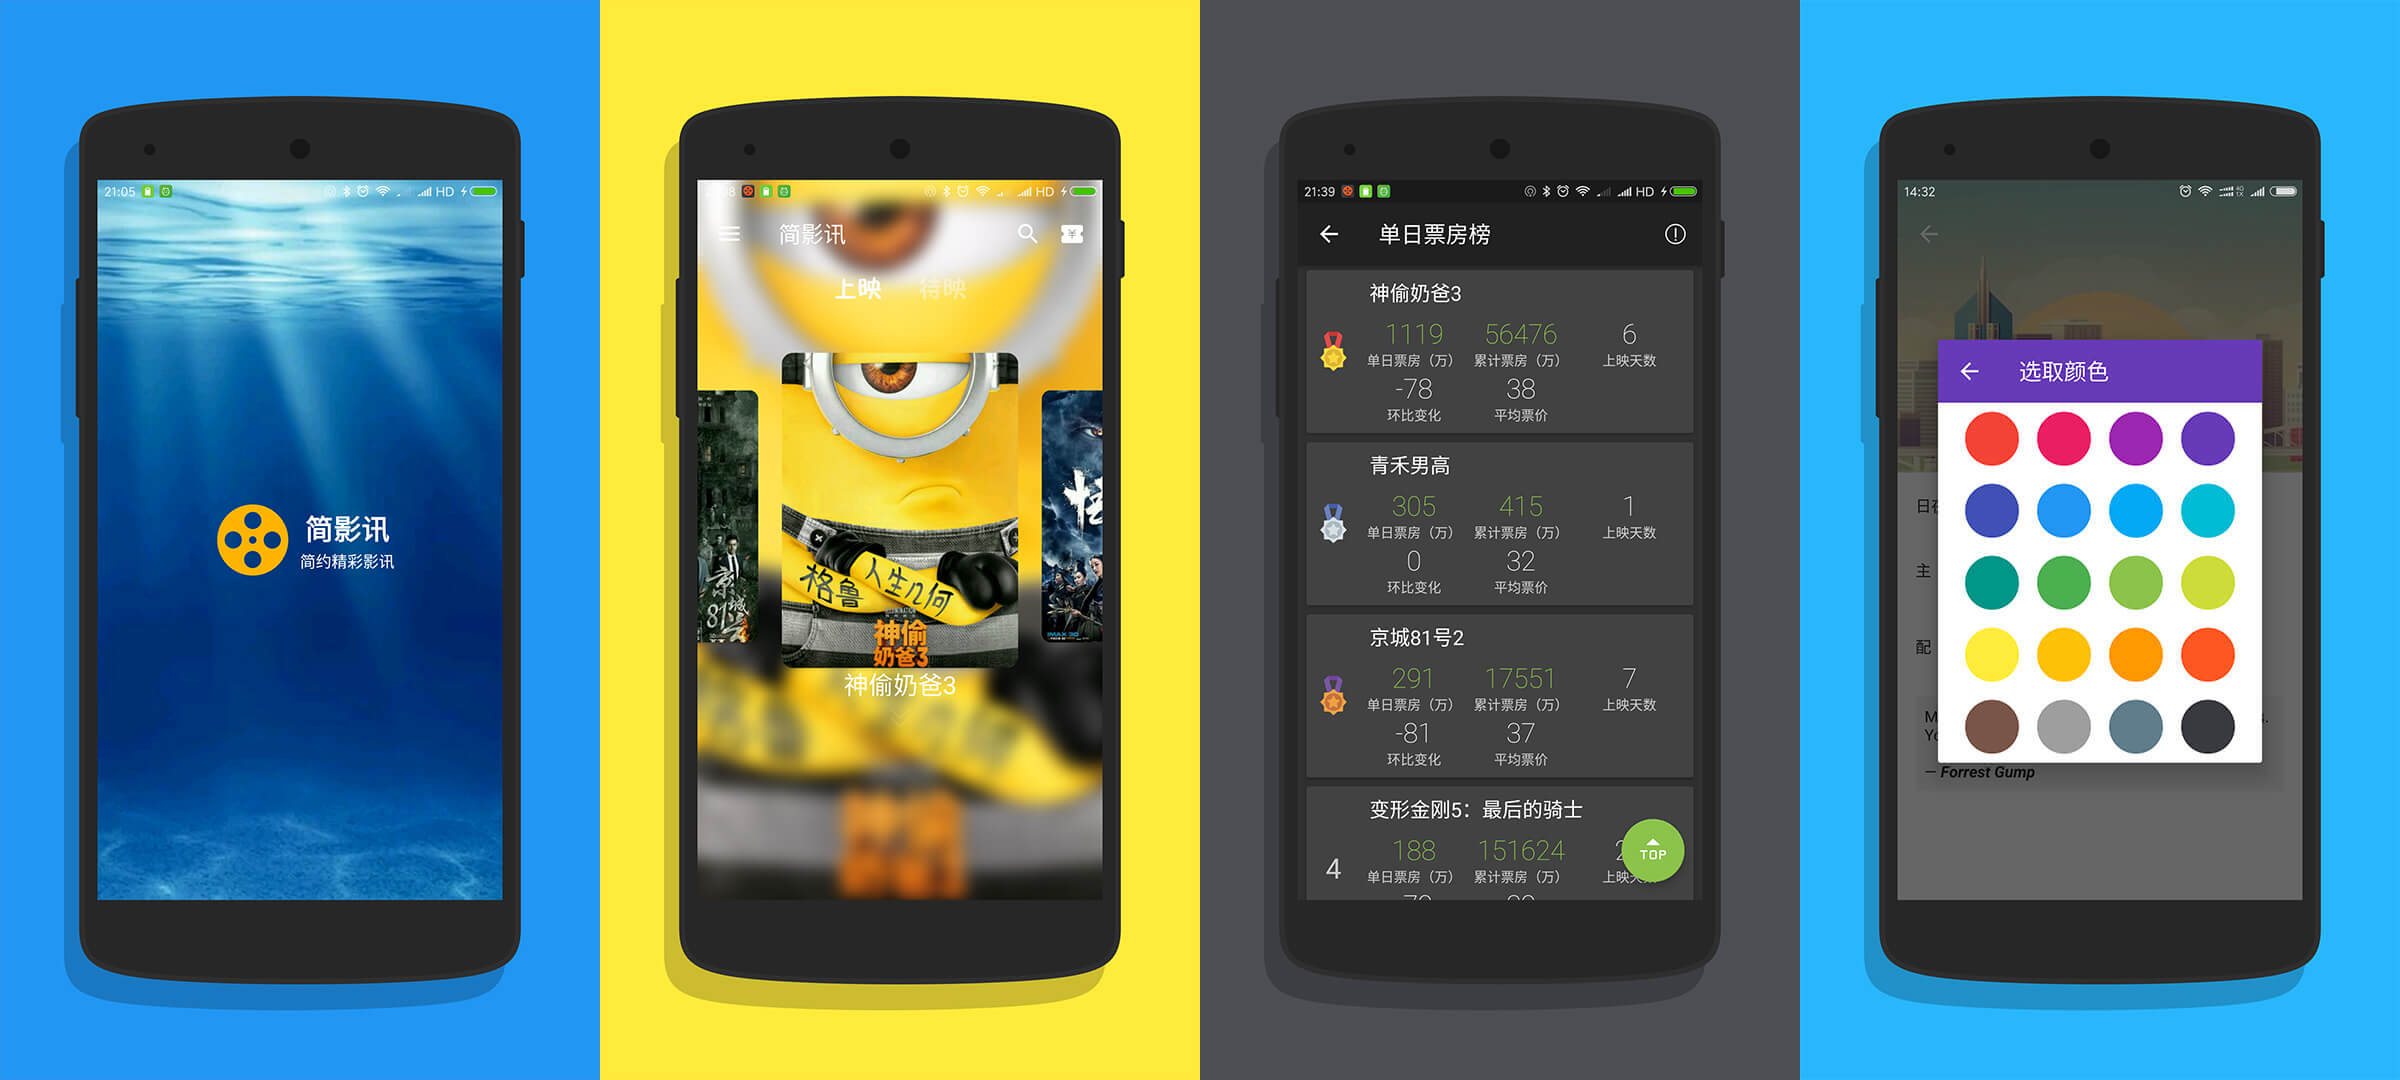
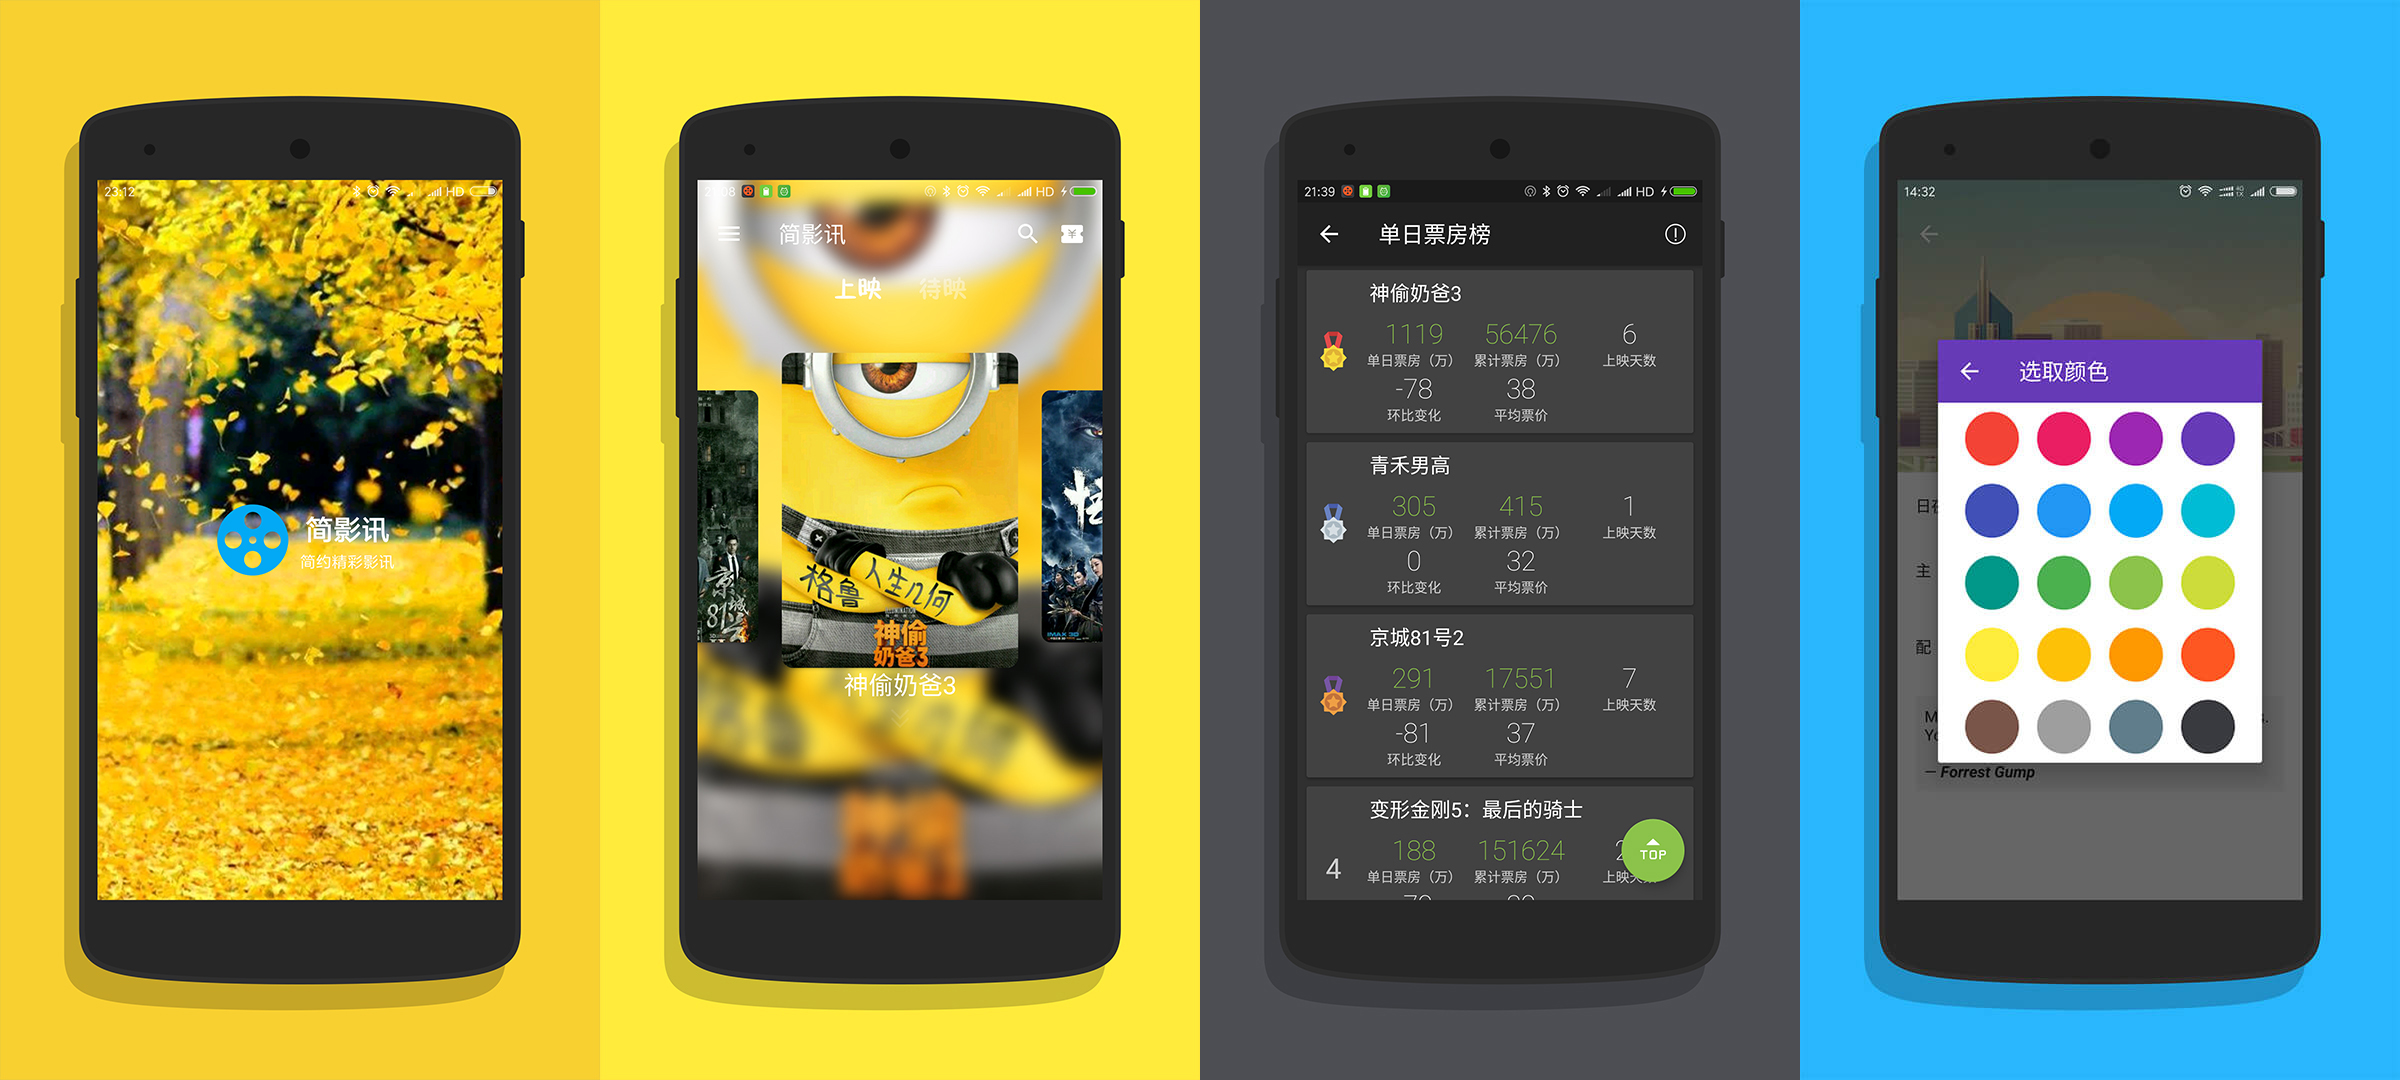
更新秋日装扮；修复bug

diff --git a/app/src/main/java/com/xw/project/gracefulmovies/view/fragment/MovieListFragment.java b/app/src/main/java/com/xw/project/gracefulmovies/view/fragment/MovieListFragment.java
@@ -27,7 +27,7 @@ import butterknife.ButterKnife;
 
 /**
  * 影片列表Fragment
- * <p/>
+ * <p>
  * Created by woxingxiao on 2017-01-23.
  */
 public class MovieListFragment extends Fragment implements
@@ -76,7 +76,7 @@ public class MovieListFragment extends Fragment implements
 
         mBlurTransformation = new BlurTransformation(getActivity(), 10);
         mBgImg1.setAlpha(0f);
-        mBgImg2.setImageResource(R.drawable.pic_bg_ocean);
+        mBgImg2.setImageResource(R.drawable.pic_bg_fall);
 
         return view;
     }
@@ -140,8 +140,8 @@ public class MovieListFragment extends Fragment implements
             Glide.with(activity)
                     .load(mMovieModels.get(index).getPoster())
                     .transform(mBlurTransformation)
-                    .placeholder(R.drawable.pic_bg_ocean)
-                    .error(R.drawable.pic_bg_ocean)
+                    .placeholder(R.drawable.pic_bg_fall)
+                    .error(R.drawable.pic_bg_fall)
                     .crossFade()
                     .into(imageView);
         }
@@ -225,17 +225,18 @@ public class MovieListFragment extends Fragment implements
     }
 
     @Override
-    public void onScroll(float scrollPosition, @NonNull MovieListAdapter.MovieVH currentHolder, @NonNull MovieListAdapter.MovieVH newCurrent) {
+    public void onScroll(float scrollPosition, int currentPosition, int newPosition,
+                         @Nullable MovieListAdapter.MovieVH currentHolder,
+                         @Nullable MovieListAdapter.MovieVH newCurrent) {
         float position = Math.abs(scrollPosition);
-        boolean isOdd = currentHolder.getAdapterPosition() % 2 != 0;
-        int intentPos = newCurrent.getAdapterPosition();
+        boolean isOdd = currentPosition % 2 != 0;
 
-        if (mPreIntentPos != intentPos) {
+        if (mPreIntentPos != newPosition) {
             isIntentTriggered = false;
         }
         if (isOdd) {
-            if (!isIntentTriggered && intentPos >= 0 && intentPos <= mMovieModels.size() - 1) {
-                displayBgImage(intentPos, mBgImg1);
+            if (!isIntentTriggered && newPosition >= 0 && newPosition <= mMovieModels.size() - 1) {
+                displayBgImage(newPosition, mBgImg1);
 
                 isIntentTriggered = true;
             }
@@ -243,8 +244,8 @@ public class MovieListFragment extends Fragment implements
             mBgImg1.setAlpha(position);
             mBgImg2.setAlpha(1 - position);
         } else {
-            if (!isIntentTriggered && intentPos >= 0 && intentPos <= mMovieModels.size() - 1) {
-                displayBgImage(intentPos, mBgImg2);
+            if (!isIntentTriggered && newPosition >= 0 && newPosition <= mMovieModels.size() - 1) {
+                displayBgImage(newPosition, mBgImg2);
 
                 isIntentTriggered = true;
             }
@@ -252,13 +253,15 @@ public class MovieListFragment extends Fragment implements
             mBgImg1.setAlpha(1 - position);
             mBgImg2.setAlpha(position);
         }
-        mPreIntentPos = intentPos;
+        mPreIntentPos = newPosition;
 
-        float fastAlpha = position + 0.4f;
-        currentHolder.mNameText.setAlpha(1 - fastAlpha);
-        newCurrent.mNameText.setAlpha(fastAlpha);
-        if (currentHolder.mInfoLayout.getVisibility() == View.VISIBLE) {
-            currentHolder.mInfoLayout.setAlpha(1 - fastAlpha);
+        if (currentHolder != null && newCurrent != null) {
+            float fastAlpha = position + 0.4f;
+            currentHolder.mNameText.setAlpha(1 - fastAlpha);
+            newCurrent.mNameText.setAlpha(fastAlpha);
+            if (currentHolder.mInfoLayout.getVisibility() == View.VISIBLE) {
+                currentHolder.mInfoLayout.setAlpha(1 - fastAlpha);
+            }
         }
     }
 }

diff --git a/app/src/main/java/com/xw/project/gracefulmovies/view/activity/SplashActivity.java b/app/src/main/java/com/xw/project/gracefulmovies/view/activity/SplashActivity.java
@@ -71,7 +71,7 @@ public class SplashActivity extends AppCompatActivity {
 
         RandomTransitionGenerator generator = new RandomTransitionGenerator(20000, new LinearInterpolator());
         mBgImg.setTransitionGenerator(generator);
-        Glide.with(this).load(R.drawable.pic_bg_ocean).into(mBgImg);
+        Glide.with(this).load(R.drawable.pic_bg_fall).into(mBgImg);
         mRootLayout.addOnLayoutChangeListener(new View.OnLayoutChangeListener() {
             @Override
             public void onLayoutChange(View view, int i, int i1, int i2, int i3, int i4, int i5, int i6, int i7) {
@@ -137,8 +137,8 @@ public class SplashActivity extends AppCompatActivity {
                 Process.setThreadPriority(Process.THREAD_PRIORITY_BACKGROUND);
 
                 Colorful.defaults()
-                        .primaryColor(Colorful.ThemeColor.BLUE)
-                        .accentColor(Colorful.ThemeColor.LIGHT_GREEN)
+                        .primaryColor(Colorful.ThemeColor.DEEP_ORANGE)
+                        .accentColor(Colorful.ThemeColor.LIGHT_BLUE)
                         .translucent(false)
                         .night(false);
                 Colorful.init(getApplicationContext());

diff --git a/app/src/main/java/com/xw/project/gracefulmovies/view/fragment/SettingsFragment.java b/app/src/main/java/com/xw/project/gracefulmovies/view/fragment/SettingsFragment.java
@@ -155,14 +155,14 @@ public class SettingsFragment extends PreferenceFragment implements Preference.O
         }
         hourBar.setOnProgressChangedListener(new BubbleSeekBar.OnProgressChangedListenerAdapter() {
             @Override
-            public void onProgressChanged(int progress, float progressFloat) {
+            public void onProgressChanged(BubbleSeekBar bubbleSeekBar, int progress, float progressFloat) {
                 hourMinText.setText(getString(R.string.format_hour_min, formatTime(progress),
                         formatTime(minBar.getProgress())));
             }
         });
         minBar.setOnProgressChangedListener(new BubbleSeekBar.OnProgressChangedListenerAdapter() {
             @Override
-            public void onProgressChanged(int progress, float progressFloat) {
+            public void onProgressChanged(BubbleSeekBar bubbleSeekBar, int progress, float progressFloat) {
                 hourMinText.setText(getString(R.string.format_hour_min,
                         formatTime(hourBar.getProgress()), formatTime(progress)));
             }

diff --git a/app/src/main/java/com/xw/project/gracefulmovies/view/activity/SearchActivity.java b/app/src/main/java/com/xw/project/gracefulmovies/view/activity/SearchActivity.java
@@ -192,6 +192,13 @@ public class SearchActivity extends BaseActivity implements ISearchActivity {
         if (!TextUtils.isEmpty(tags) && tags.contains("/")) {
             mTypeContainer.setTagData(tags.replaceAll(" ", "").split("/"),
                     Colorful.getThemeDelegate().getAccentColor().getColorRes());
+
+            int childCount = mTypeContainer.getChildCount();
+            for (int i = 0; i < childCount; i++) {
+                TextView textView = (TextView) mTypeContainer.getChildAt(i);
+                textView.setTextColor(ContextCompat.getColor(this,
+                        Colorful.getThemeDelegate().getAccentColor().getColorRes()));
+            }
         }
         mDirectorText.setText(model.getDir());
         float rating = model.getRating();

diff --git a/app/src/main/java/com/xw/project/gracefulmovies/view/adapter/MovieListAdapter.java b/app/src/main/java/com/xw/project/gracefulmovies/view/adapter/MovieListAdapter.java
@@ -48,8 +48,8 @@ public class MovieListAdapter extends BaseRecyclerAdapter<MovieModel, MovieListA
         holder.mNameText.setAlpha(position == 0 ? 1 : 0);
         Glide.with(mContext)
                 .load(model.getPoster())
-                .placeholder(R.drawable.pic_orange)
-                .error(R.drawable.pic_orange)
+                .placeholder(R.drawable.pic_bg_fall)
+                .error(R.drawable.pic_bg_fall)
                 .into(holder.mPosterImg);
         holder.tagContainer.setTagData(model.getMovieTypeList(),
                 Colorful.getThemeDelegate().getAccentColor().getColorRes());

diff --git a/README.md b/README.md
@@ -16,11 +16,9 @@
 
 ## 升级日志  
 ### 最新：
-### 2.0.0 (Build 27)
-1. 全新的首页，我颜值炸裂！
-2. 移除了广告，他轻装上阵！
-3. 票房页改版，这去粗存精！
-4. 酷热的夏天，那凉爽界面！
+### 2.0.1 (Build 28)
+1. 精选秋日装扮；
+2. bug修复。
 
 ### 历史：
 [**UpdateLog**](https://github.com/woxingxiao/GracefulMovies/blob/master/UpdateLog.md)  

diff --git a/UpdateLog.md b/UpdateLog.md
@@ -1,3 +1,7 @@
+### 2.0.1 (Build 28)
+1. 精选秋日装扮；
+2. bug修复。
+
 ### 2.0.0 (Build 27)
 1. 全新的首页，我颜值炸裂！
 2. 移除了广告，他轻装上阵！
